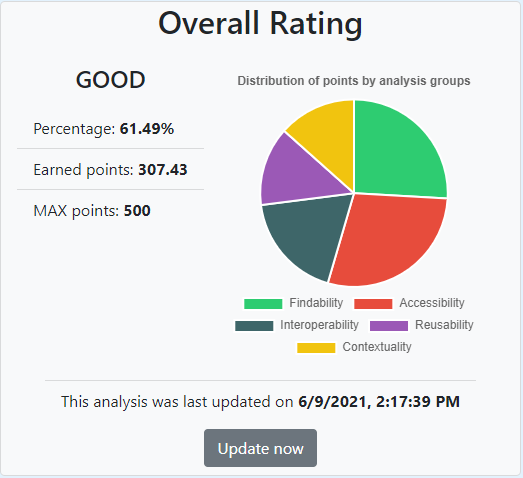
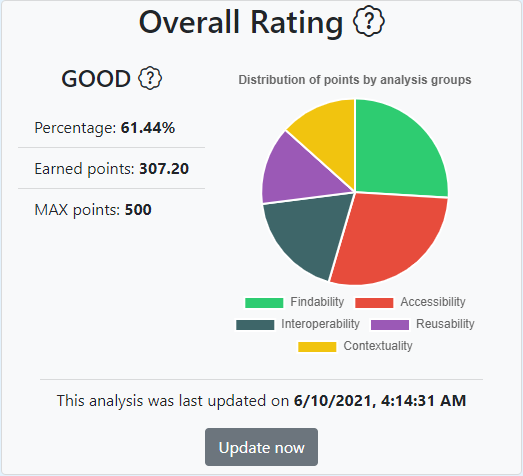
Added tooltips by charts

diff --git a/app/public/scripts/charts/tooltips.js b/app/public/scripts/charts/tooltips.js
@@ -1,0 +1,31 @@
+$(document).ready(function () {
+    $('#overallTooltip').tooltip({ placement: 'right' });
+    $('#ratingTooltip').tooltip({ placement: 'right' });
+    $('#accessTooltip').tooltip({ placement: 'right' });
+    $('#datasetAccessTooltip').tooltip({ placement: 'right' });
+    $('#urlAccessTooltip').tooltip({ placement: 'right' });
+    $('#downloadAccessTooltip').tooltip({ placement: 'right' });
+    $('#findTooltip').tooltip({ placement: 'right' });
+    $('#idTooltip').tooltip({ placement: 'right' });
+    $('#keywordsTooltip').tooltip({ placement: 'right' });
+    $('#categoriesTooltip').tooltip({ placement: 'right' });
+    $('#stateTooltip').tooltip({ placement: 'right' });
+    $('#contextTooltip').tooltip({ placement: 'right' });
+    $('#numOfResTooltip').tooltip({ placement: 'right' });
+    $('#fileSizeTooltip').tooltip({ placement: 'right' });
+    $('#emptyDataTooltip').tooltip({ placement: 'right' });
+    $('#dateOfIssueTooltip').tooltip({ placement: 'right' });
+    $('#modificationDateTooltip').tooltip({ placement: 'right' });
+    $('#dataAgeTooltip').tooltip({ placement: 'right' });
+    $('#interTooltip').tooltip({ placement: 'right' });
+    $('#formatTooltip').tooltip({ placement: 'right' });
+    $('#formatDivTooltip').tooltip({ placement: 'right' });
+    $('#compatibilityTooltip').tooltip({ placement: 'right' });
+    $('#machineReadableTooltip').tooltip({ placement: 'right' });
+    $('#LODTooltip').tooltip({ placement: 'right' });
+    $('#reuseTooltip').tooltip({ placement: 'right' });
+    $('#licenseTooltip').tooltip({ placement: 'right' });
+    $('#basicInfoTooltip').tooltip({ placement: 'right' });
+    $('#extrasTooltip').tooltip({ placement: 'right' });
+    $('#publisherTooltip').tooltip({ placement: 'right' });
+});

diff --git a/app/public/styles/main.css b/app/public/styles/main.css
@@ -35,3 +35,7 @@ canvas.smaller-chart {
     max-height: 300px;
     min-width: 75%;
 }
+
+#ratingTooltip {
+    min-width: 500px;
+}
